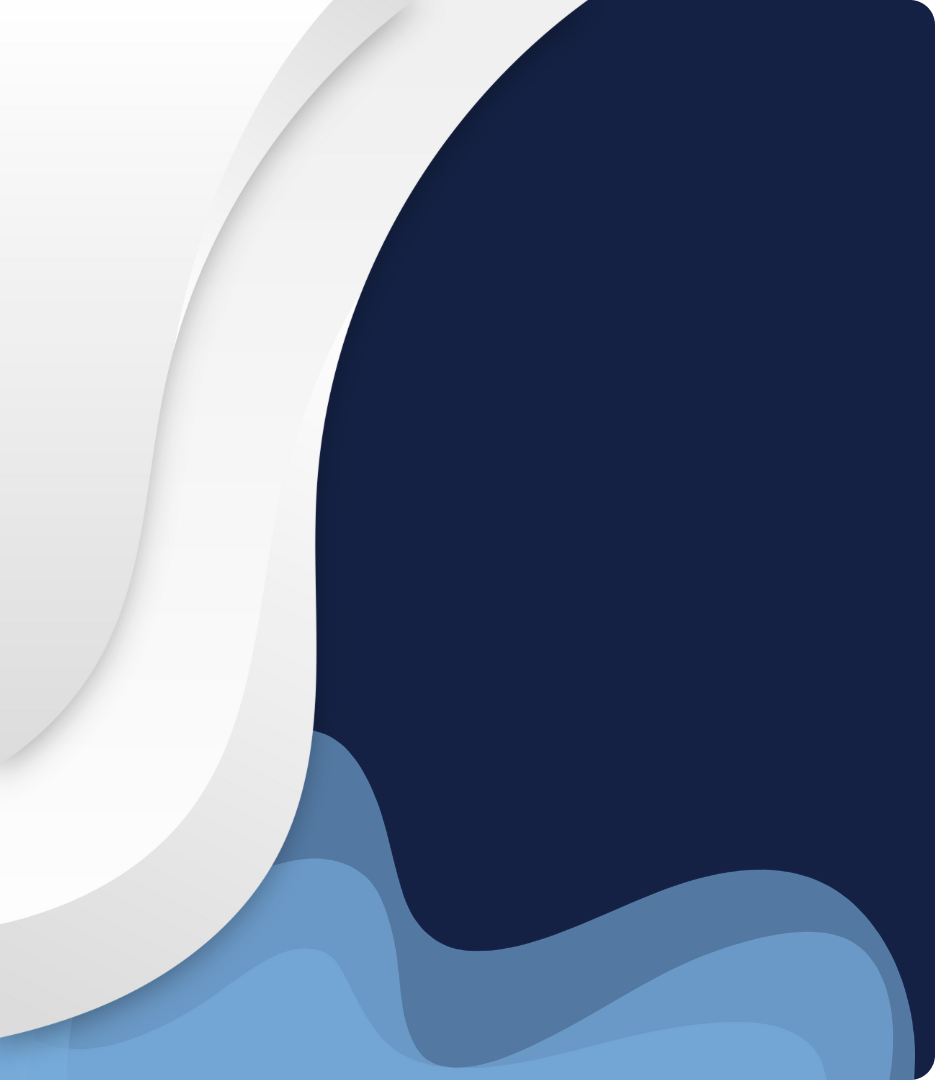
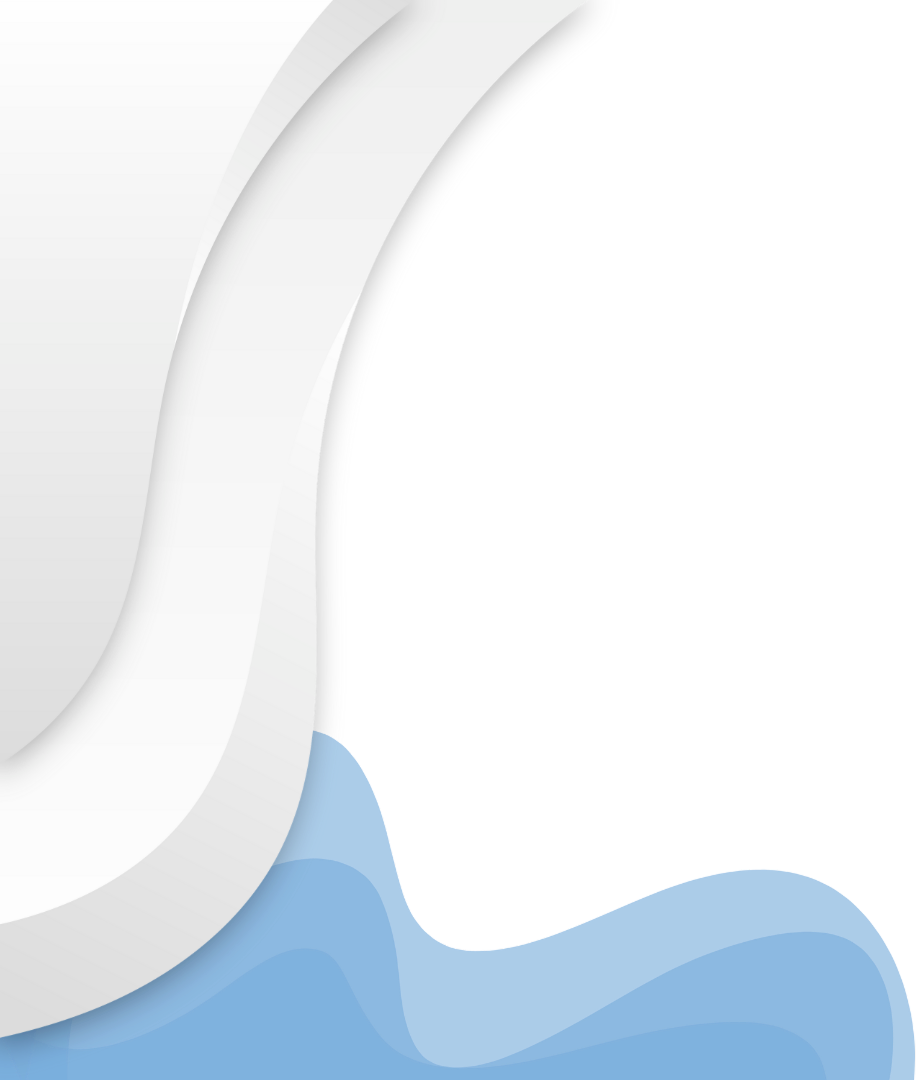
a

diff --git a/src/pages/Admins/components/SearchBar.tsx b/src/pages/Admins/components/SearchBar.tsx
@@ -6,9 +6,9 @@ export default function SearchBar() {
             <input
                 type="text"
                 placeholder="Search admins"
-                className="w-full pl-12 pr-4 peer py-3.5 border border-gray-300 rounded-lg text-sm focus:outline-none focus:ring-2 focus:ring-gray-200"
+                className="w-full pl-10 pr-4 peer py-3 border border-gray-300 rounded-lg text-sm focus:outline-none focus:ring-2 focus:ring-gray-200"
             />
-            <Search className="absolute text-gray-500 peer-focus:text-gray-900 left-4 top-0 h-full" size={20} />
+            <Search className="absolute text-gray-500 peer-focus:text-gray-900 left-3 top-0 h-full" size={20} />
         </label>
     );
 }

diff --git a/src/pages/Dashboard/components/WaterLevelStatusCard/components/MainDisplay.tsx b/src/pages/Dashboard/components/WaterLevelStatusCard/components/MainDisplay.tsx
@@ -150,7 +150,9 @@ export default function MainDisplay() {
             <div className="space-y-2">
                 <p>
                     <span className="text-3xl font-semibold">
-                        {`${(sensorData?.water_level.current_cm || 0).toFixed(1)} `}
+                        {`${(sensorData?.water_level.current_cm || 0).toFixed(
+                            1
+                        )} `}
                     </span>
                     <span>cm</span>
                 </p>

diff --git a/src/pages/Dashboard/Dashboard.tsx b/src/pages/Dashboard/Dashboard.tsx
@@ -6,8 +6,6 @@ import WaterLevelStatusCard from "./components/WaterLevelStatusCard";
 import FusionAnalysis from "./components/FusionAnalysis";
 
 export default function Dashboard() {
-    
-    
 
     return (
         <div className="flex flex-col gap-2">

diff --git a/src/lib/api/weather.ts b/src/lib/api/weather.ts
@@ -20,6 +20,7 @@ export const fetchWeatherData = async ({
     }
 
     const data = await res.json();
+    console.log(data)
 
     const precipitation = data.current.precipitation || 0;
     const weatherCode = data.current.weather_code;
